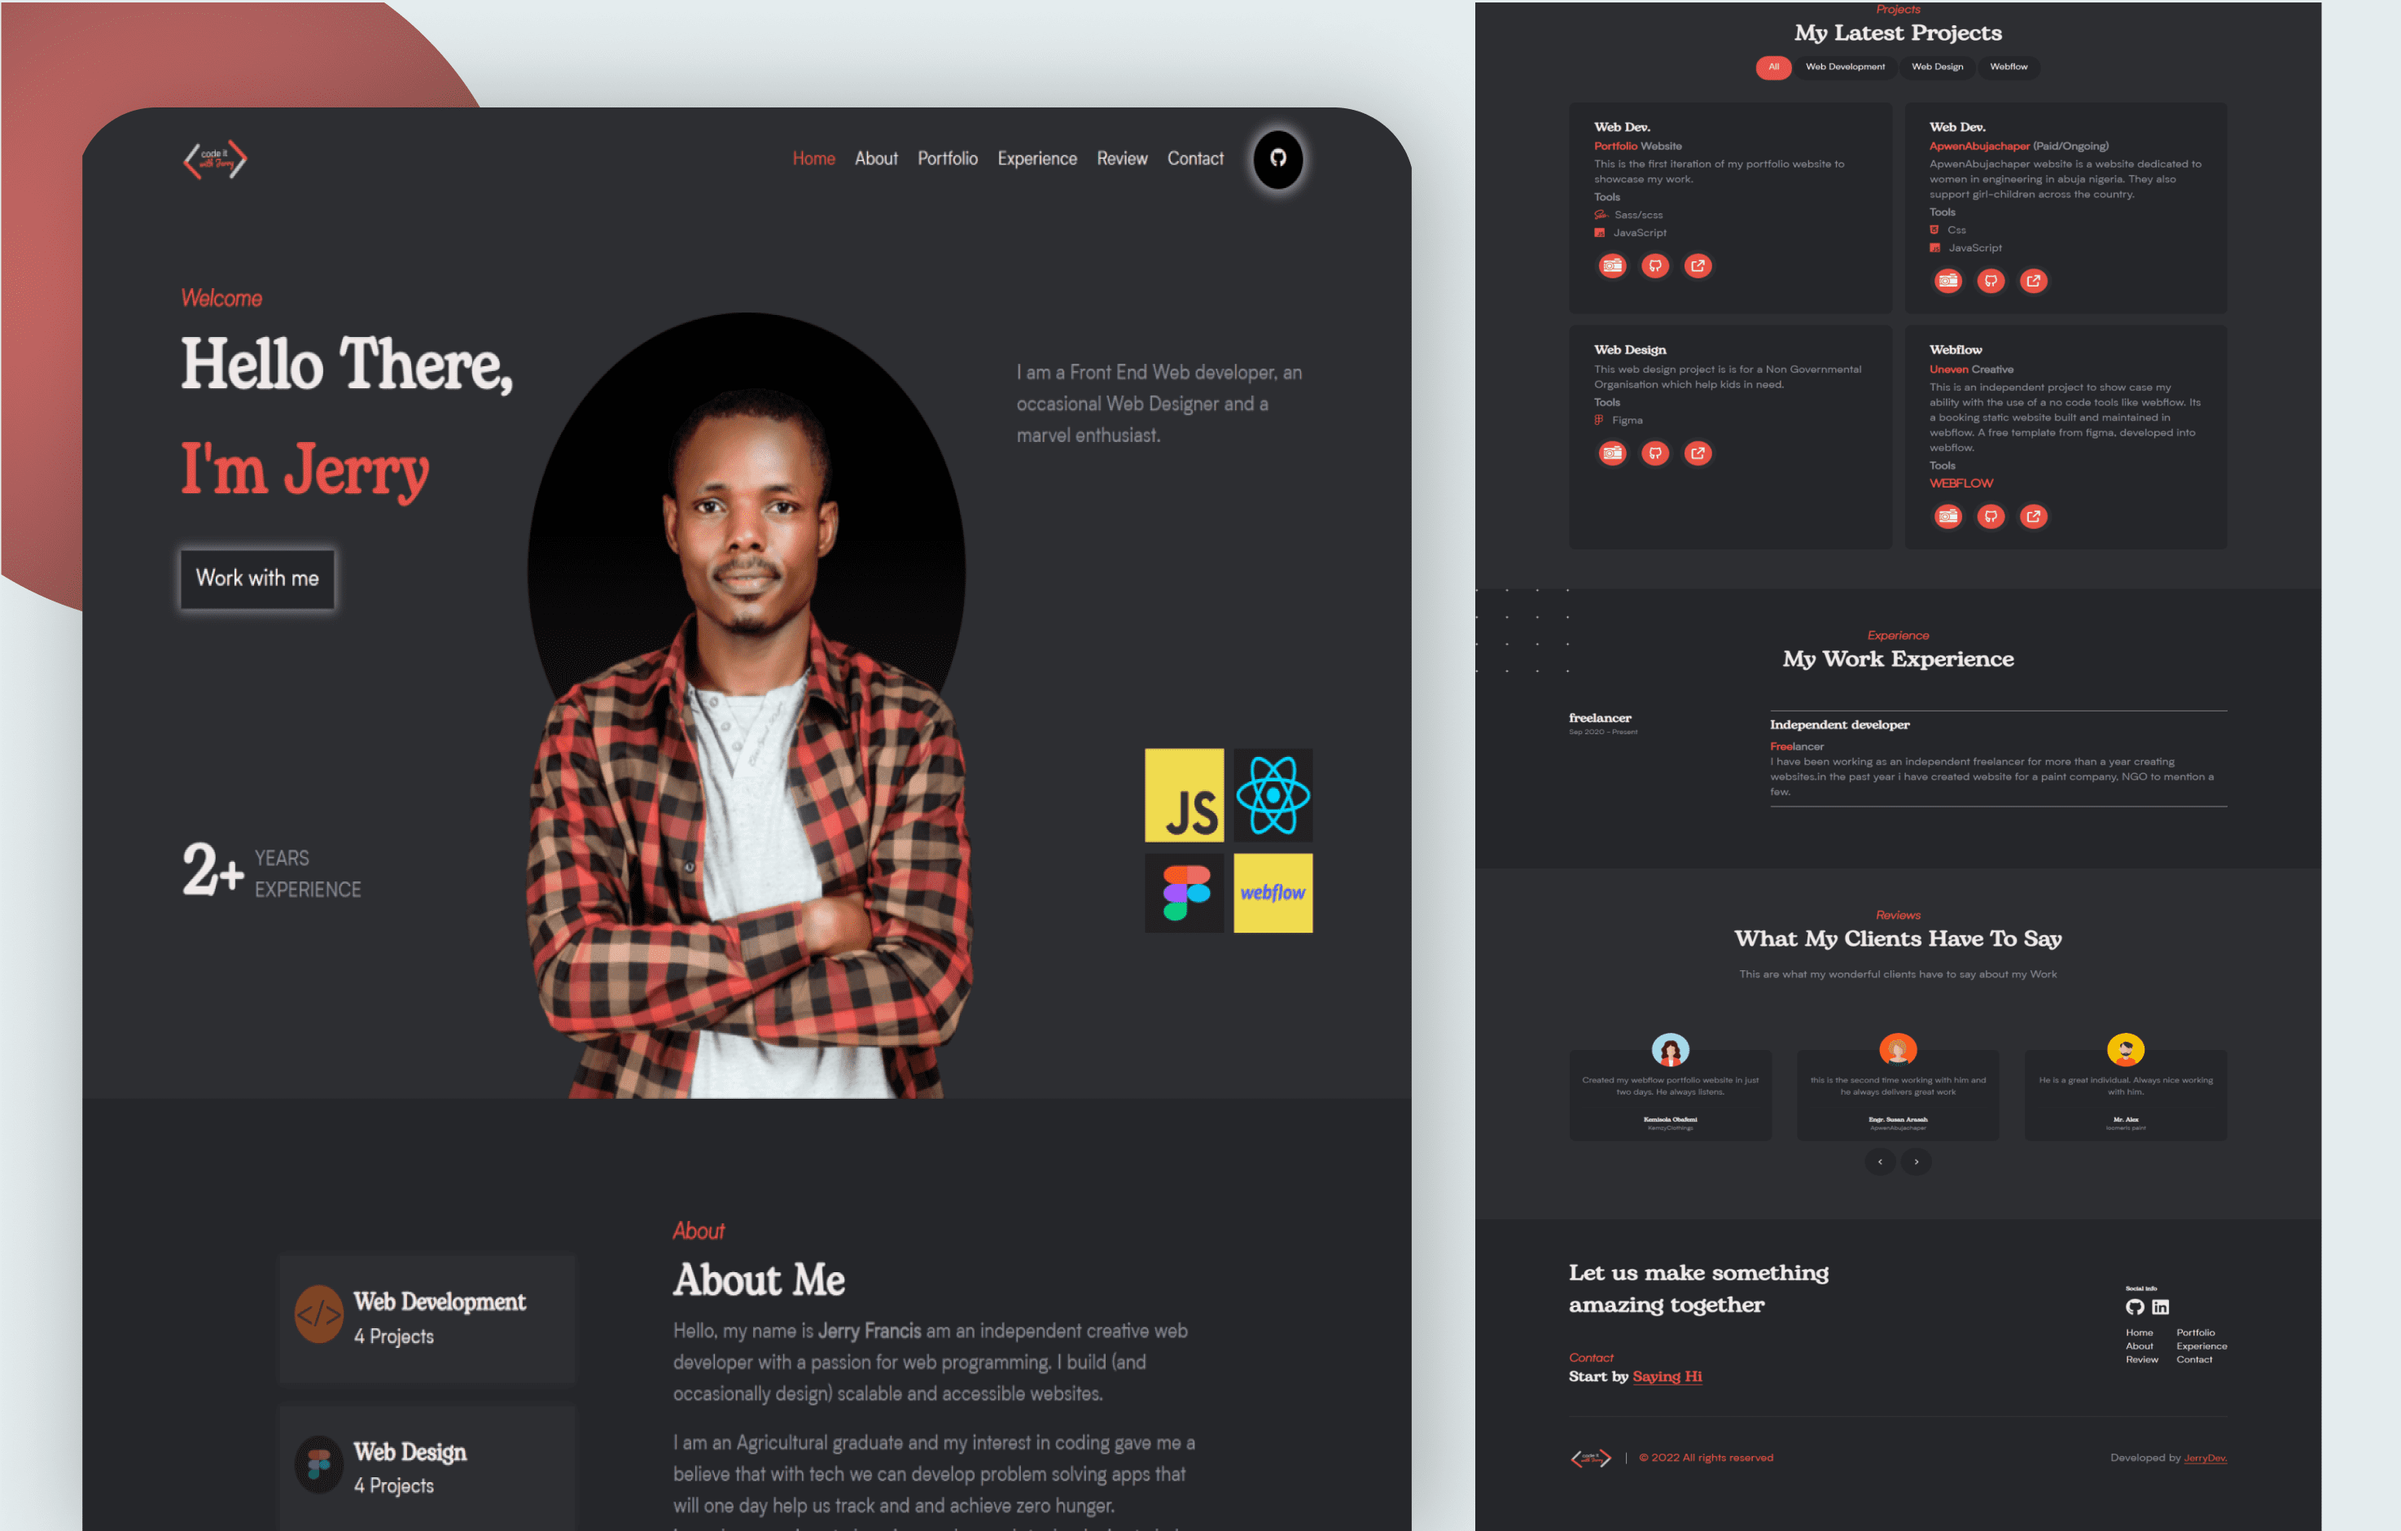
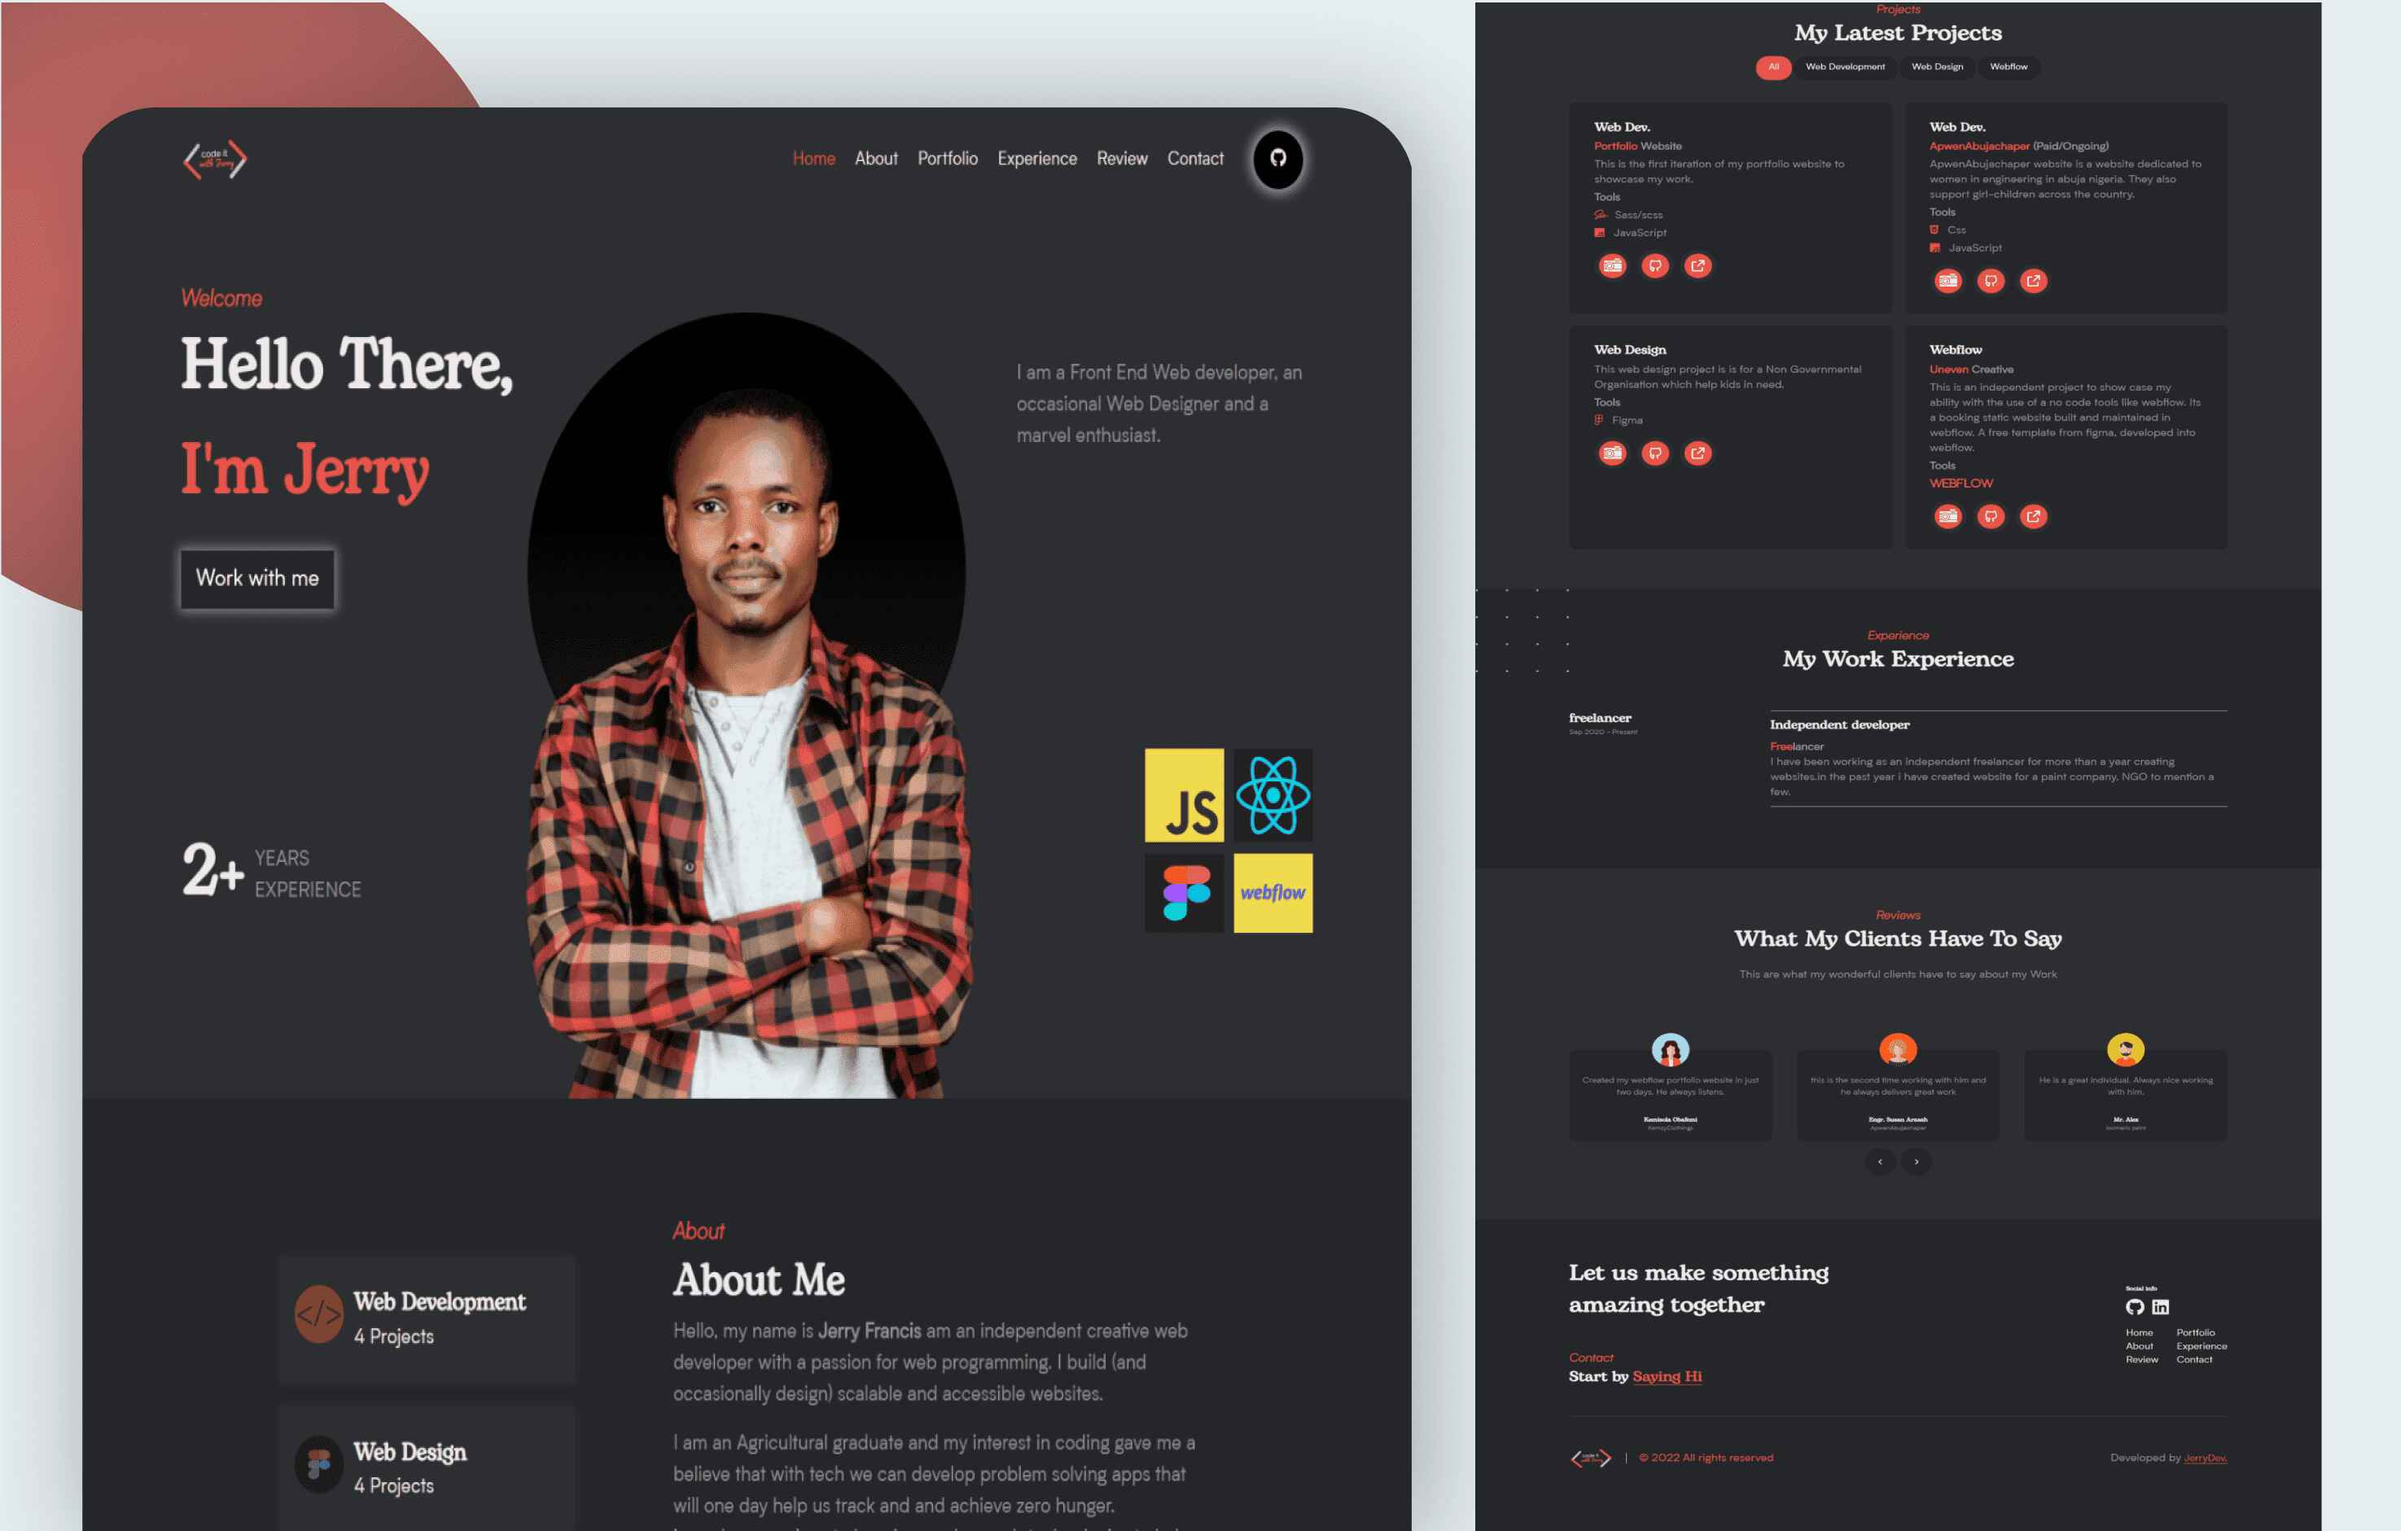
new

diff --git a/public/index.html b/public/index.html
@@ -69,7 +69,7 @@
 
                 <div class="exp-header">
                     <div class="exp-years">
-                        <h2>2+</h2>
+                        <h2>3+</h2>
                         <p>YEARS <br>EXPERIENCE</p>
                     </div>
 
